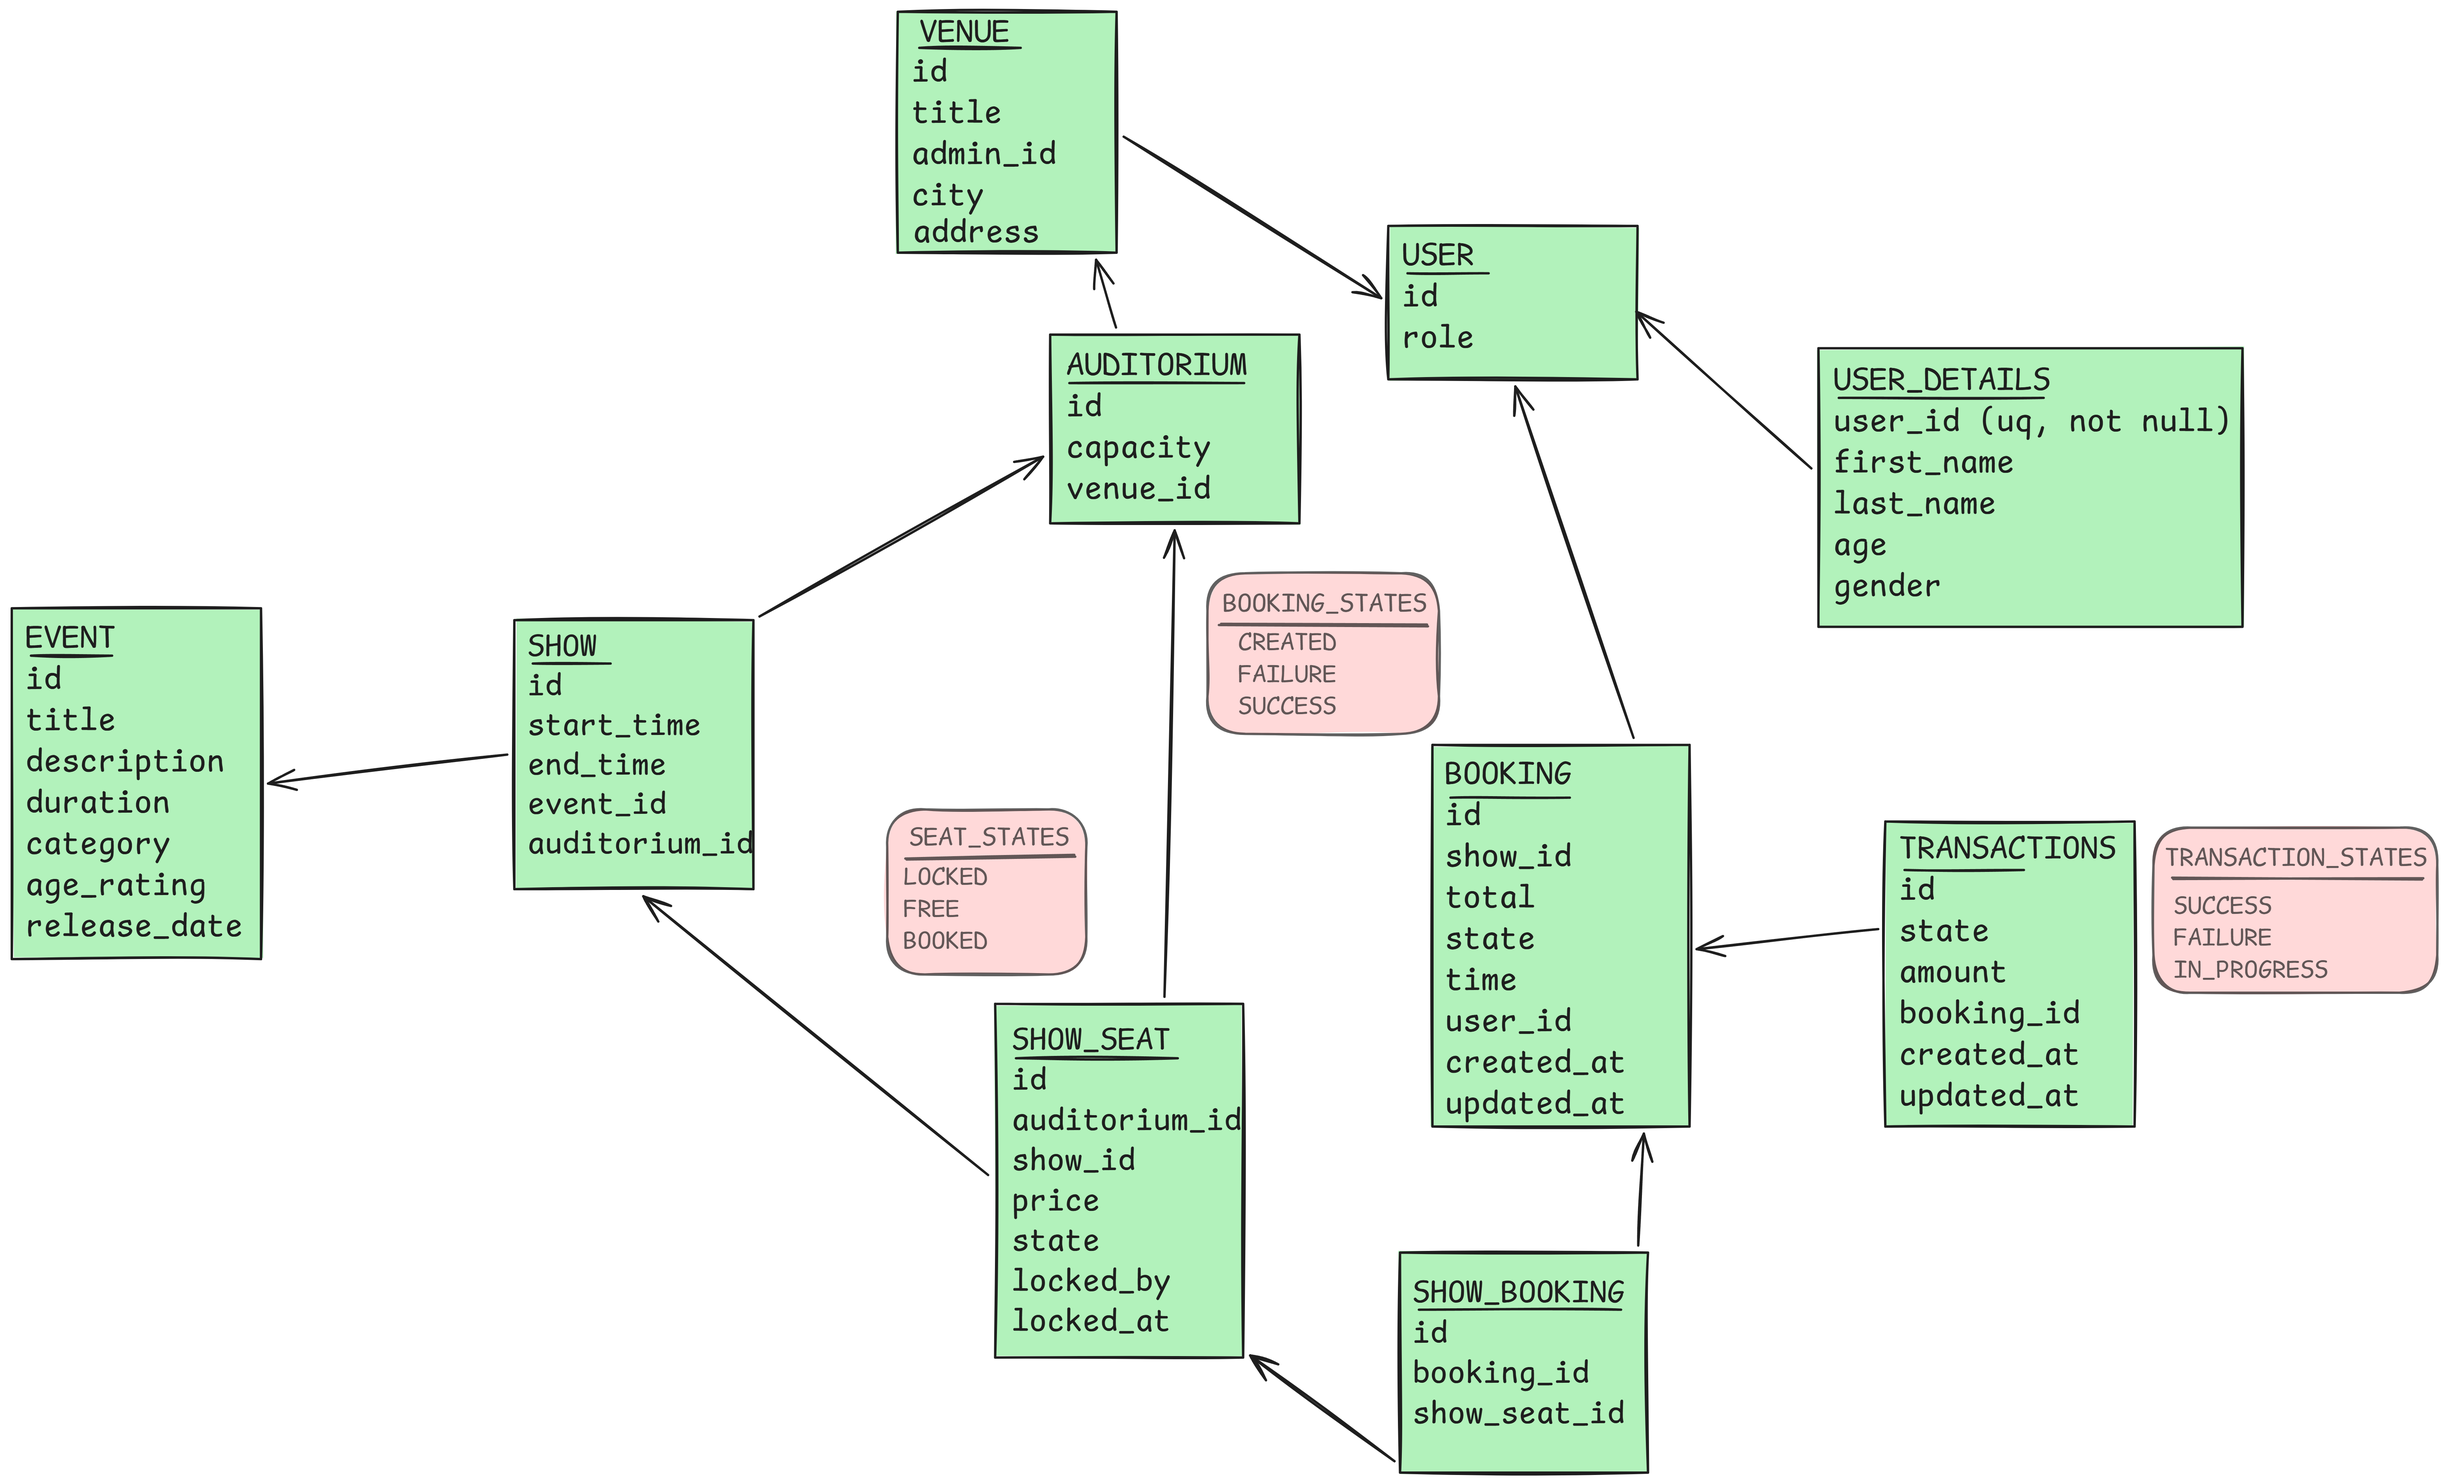
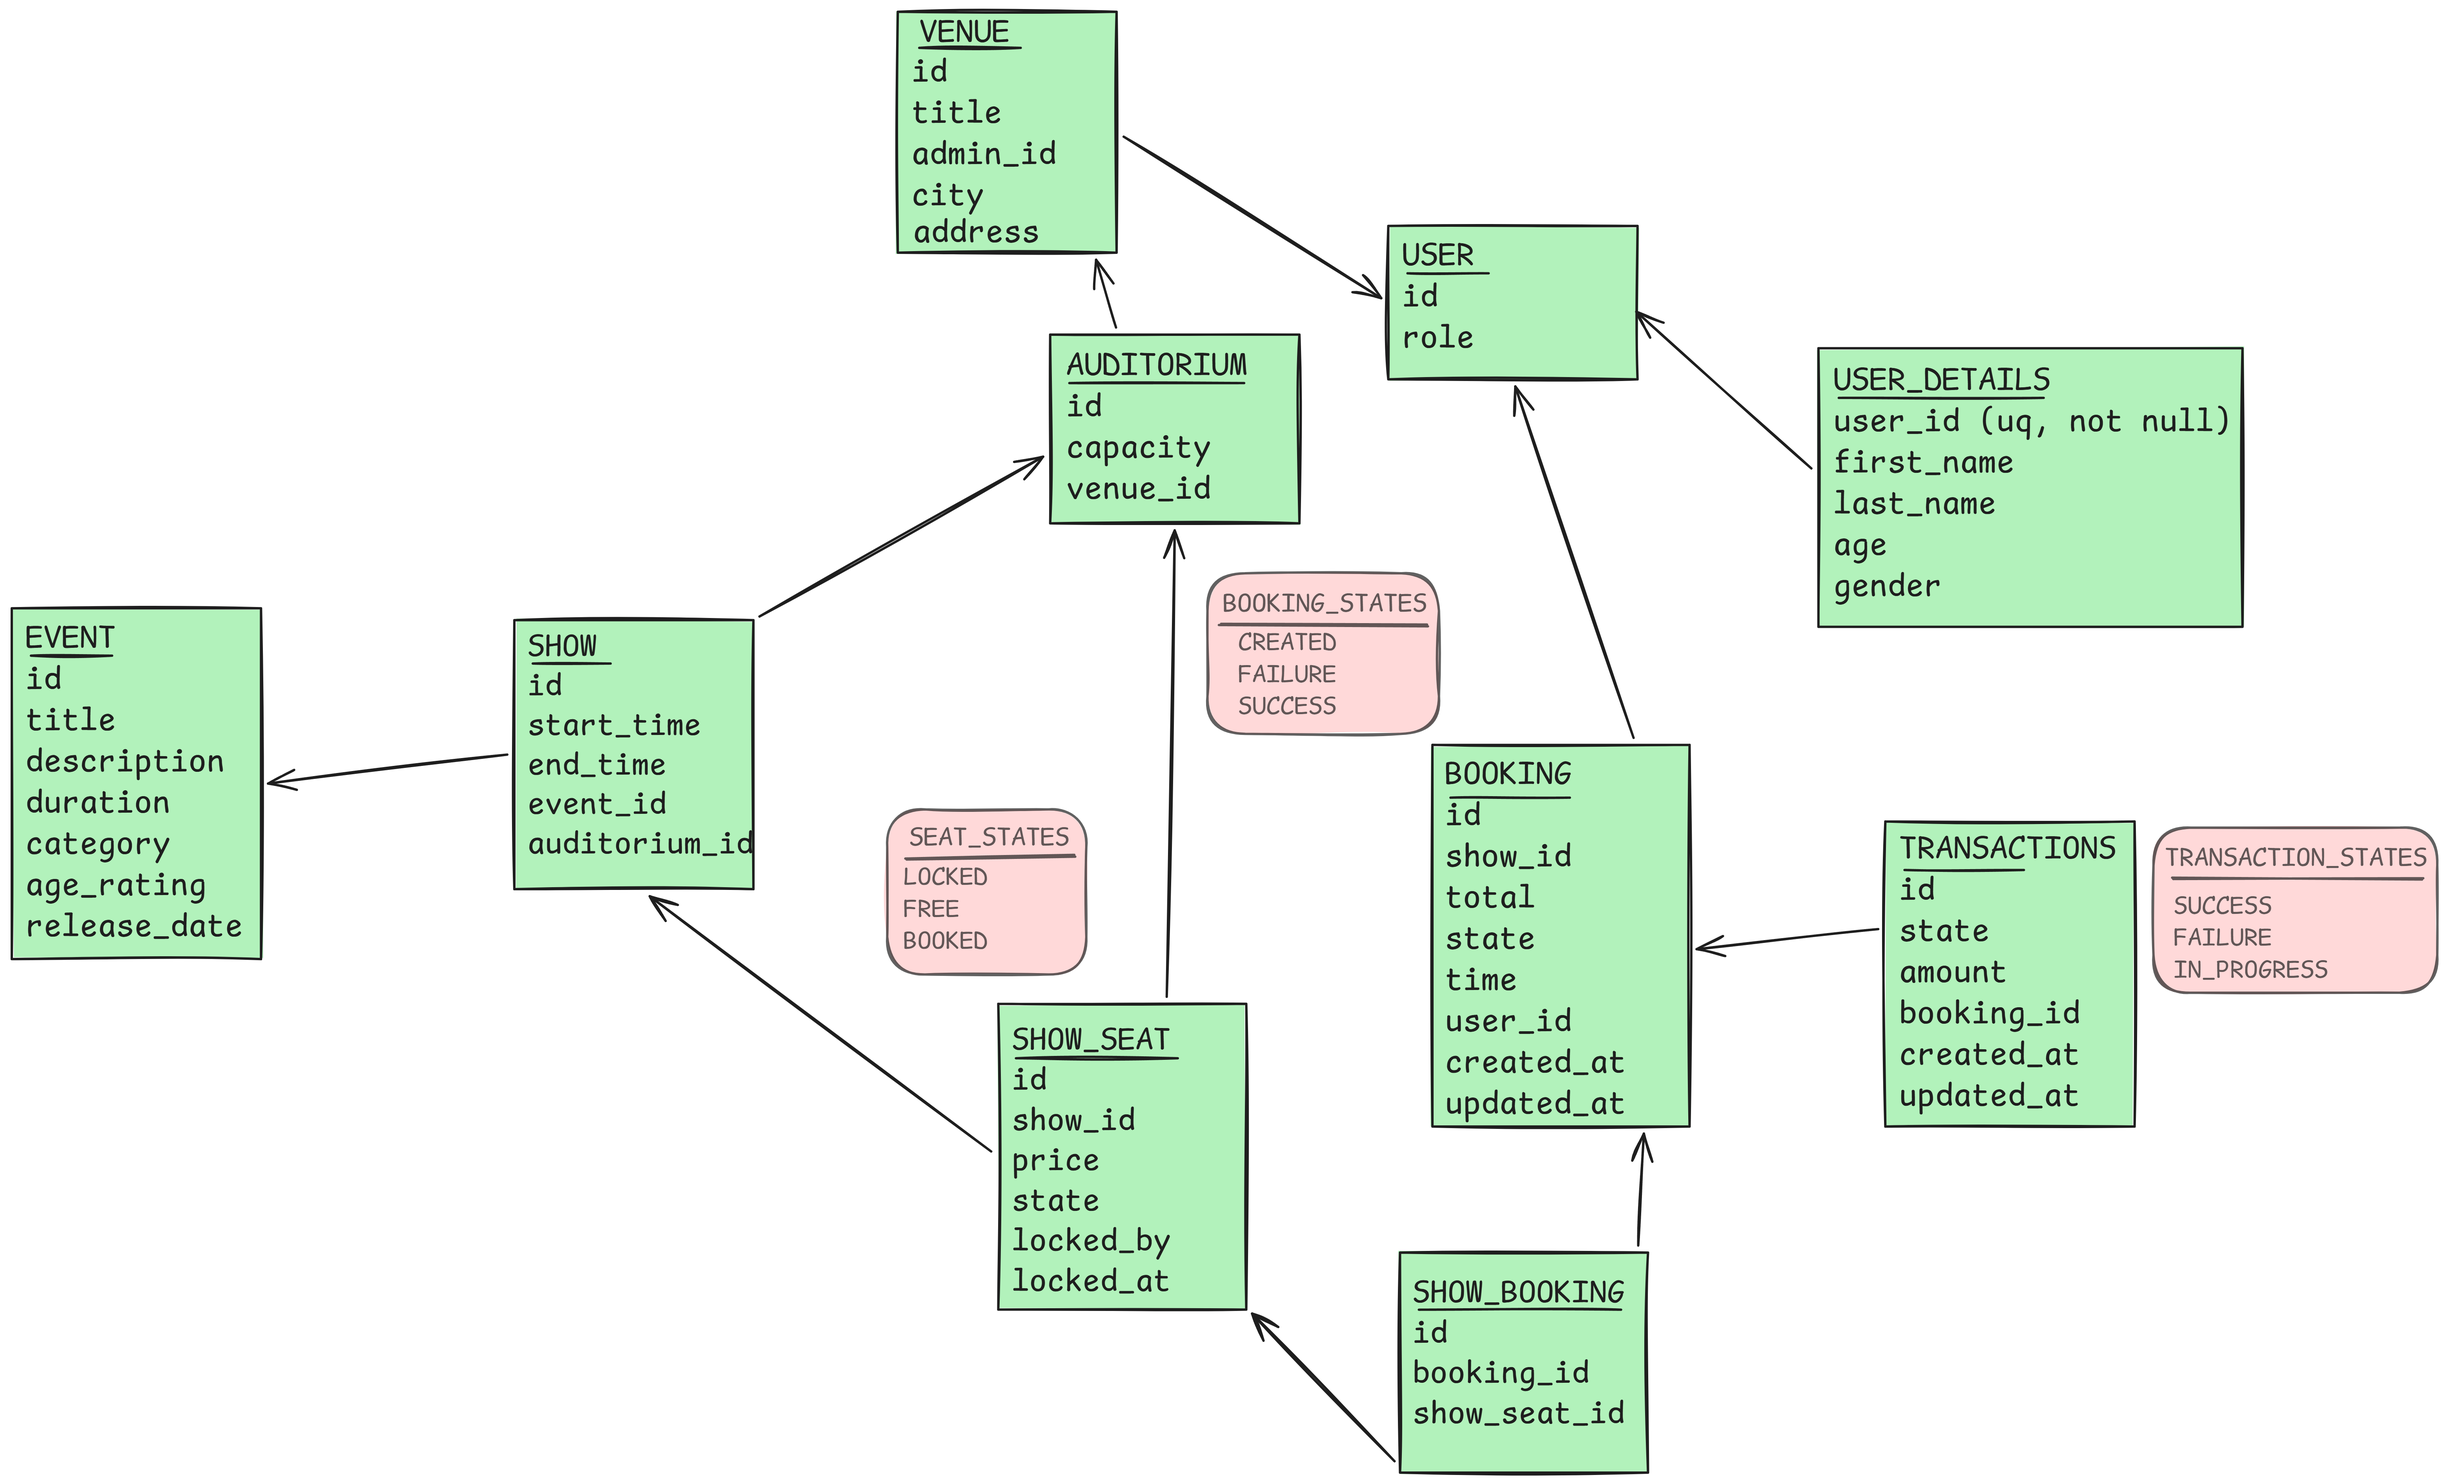
refactor(booking): remove redundant auditorium_id from show_seat
- Remove the `auditorium_id` column from the `show_seat` table in `infra/schema.sql` since it can be derived from the associated `show`.
- Delete the corresponding `auditoriumId` field and column mappings from the `ShowSeat` JPA entity.
- Remove the `auditoriumId` field from `ShowSeatDto`.
- Remove `COL_AUDITORIUM_ID` from `EntityConstants` in the booking-service.
- Clean up unnecessary escaped quotes in table name constants within `EntityConstants`.

diff --git a/backend/booking-service/src/main/java/com/bms/booking_service/constants/EntityConstants.java b/backend/booking-service/src/main/java/com/bms/booking_service/constants/EntityConstants.java
@@ -13,16 +13,15 @@ public final class EntityConstants {
     // ==========================================
     // Table Names
     // ==========================================
-    public static final String TABLE_SHOW_SEAT = "\"show_seat\"";
-    public static final String TABLE_BOOKING = "\"booking\"";
-    public static final String TABLE_SHOW_BOOKING = "\"show_booking\"";
+    public static final String TABLE_SHOW_SEAT = "show_seat";
+    public static final String TABLE_BOOKING = "booking";
+    public static final String TABLE_SHOW_BOOKING = "show_booking";
 
     // ==========================================
     // Column Names
     // ==========================================
     
     // ShowSeat Columns
-    public static final String COL_AUDITORIUM_ID = "auditorium_id";
     public static final String COL_SHOW_ID = "show_id";
     public static final String COL_LOCKED_BY = "locked_by";
     public static final String COL_LOCKED_AT = "locked_at";

diff --git a/backend/booking-service/src/main/java/com/bms/booking_service/entity/ShowSeat.java b/backend/booking-service/src/main/java/com/bms/booking_service/entity/ShowSeat.java
@@ -26,9 +26,6 @@ public class ShowSeat {
     @GeneratedValue(strategy = GenerationType.IDENTITY)
     private Integer id;
 
-    @Column(name = EntityConstants.COL_AUDITORIUM_ID, nullable = false)
-    private Integer auditoriumId;
-
     @Column(name = EntityConstants.COL_SHOW_ID, nullable = false)
     private Integer showId;
 

diff --git a/backend/booking-service/src/main/java/com/bms/booking_service/dto/ShowSeatDto.java b/backend/booking-service/src/main/java/com/bms/booking_service/dto/ShowSeatDto.java
@@ -14,7 +14,6 @@ import java.time.LocalDateTime;
 @Builder
 public class ShowSeatDto {
     private Integer id;
-    private Integer auditoriumId;
     private Integer showId;
     private BigDecimal price;
     private String state;

diff --git a/docs/lld/ERD.md b/docs/lld/ERD.md
@@ -51,7 +51,6 @@ erDiagram
 
     SHOW_SEAT {
         string id PK
-        string auditorium_id FK
         string show_id FK
         float price
         string state
